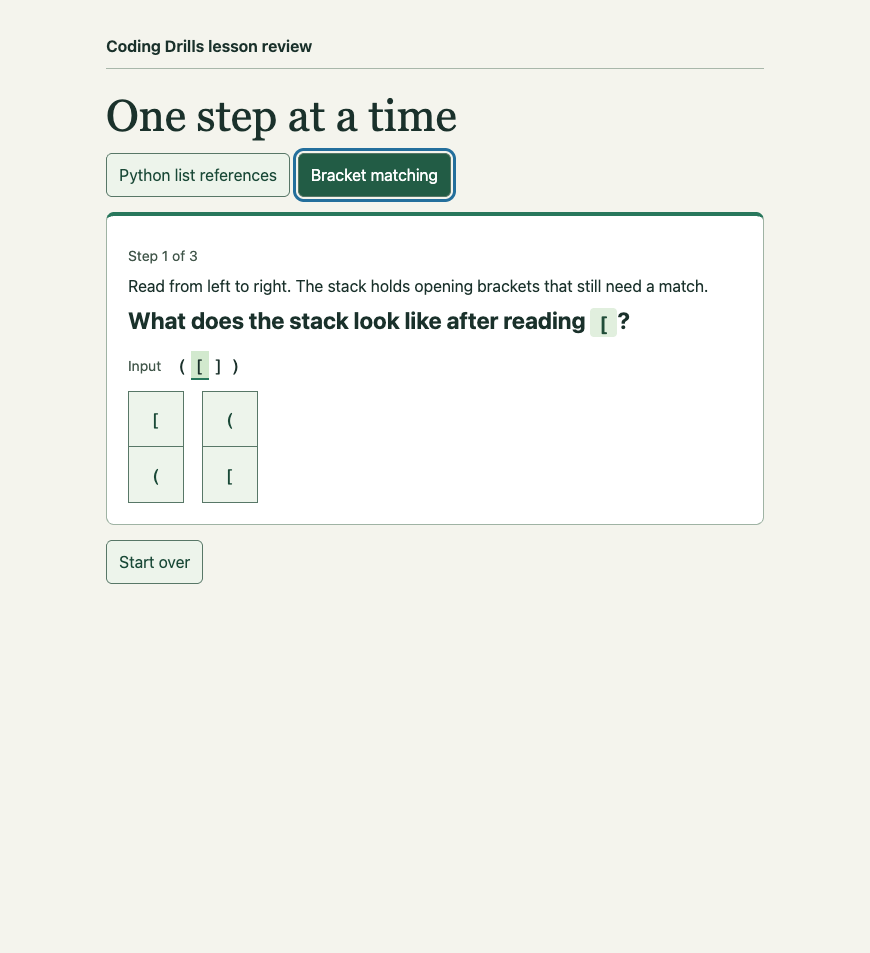
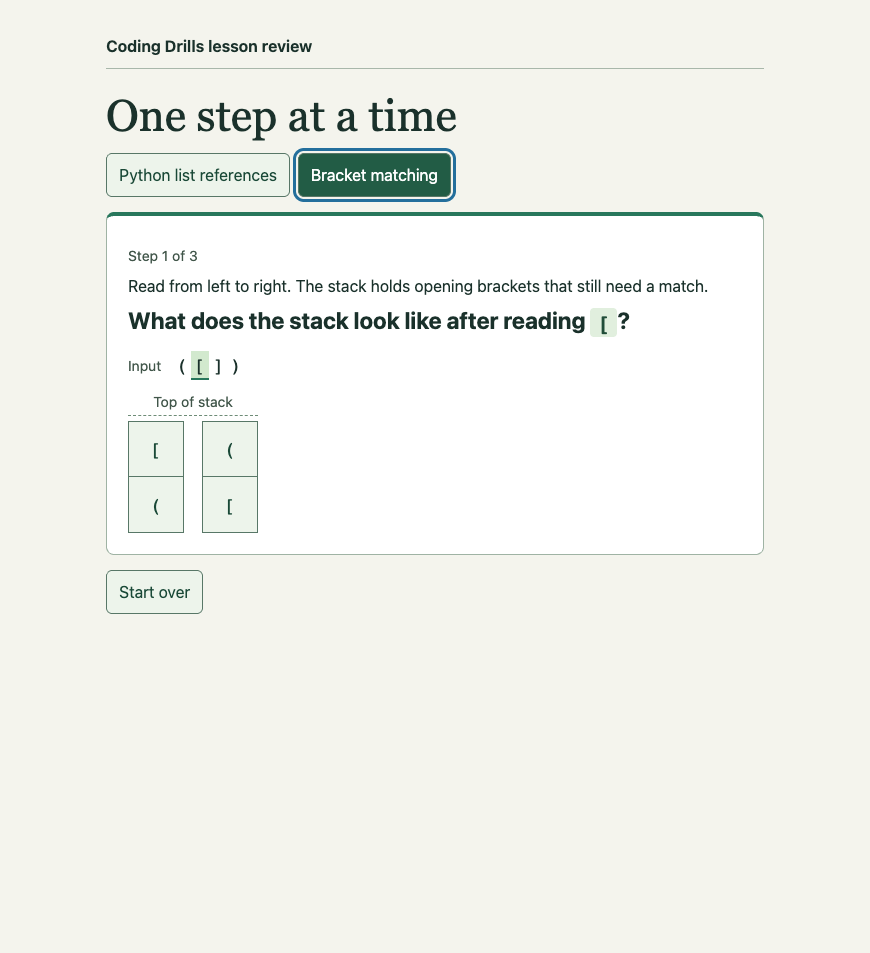
fix: mark the top of the stack choices

Changed region(s): [[0.1241, 0.5477, 0.2172, 0.639], [0.1862, 0.3956, 0.2793, 0.4565], [0.1552, 0.426, 0.1862, 0.4565]]

diff --git a/docs/prototypes/learning-harness/guided-scenarios.html b/docs/prototypes/learning-harness/guided-scenarios.html
@@ -43,7 +43,8 @@ code.inline-code { color: #214d39; background: #e1efde; border-radius: 4px; padd
 .input-brackets .current { background: #d2e9ce; border-bottom: 2px solid #28775c; }
 .stack { display: grid; gap: 4px; width: max-content; min-width: 116px; padding: 0 10px 10px; margin: 12px 0; border: solid #879d8b; border-width: 0 2px 2px; }
 .stack .caption { margin: 2px 0; }
-.stack-options { display: flex; gap: 18px; }
+.stack-options { display: grid; width: max-content; grid-template-columns: repeat(2, max-content); gap: 5px 18px; }
+.stack-top { grid-column: 1 / -1; text-align: center; border-bottom: 1px dashed #6e8c77; margin: 0; padding-bottom: 3px; }
 .stack-choice { display: grid; min-height: 0; border: 0; border-radius: 0; padding: 0; }
 .stack-choice .stack-cell { display: grid; place-items: center; width: 56px; height: 56px; border: 1px solid #587767; font-size: 1.25rem; }
 .stack-choice .stack-cell + .stack-cell { border-top: 0; }
@@ -217,6 +218,7 @@ function stackOptions(){
  const choices=add("div","",lesson,"stack-options");
  choices.setAttribute("role","group");
  choices.setAttribute("aria-label","Possible stack states");
+ add("p","Top of stack",choices,"caption stack-top");
  const options=[
   {items:["[","("],label:"Stack with [ on top and ( below",choose:advance},
   {items:["(","["],label:"Stack with ( on top and [ below",choose:()=>coach(false,"A new opening bracket goes on top of the stack.")}
